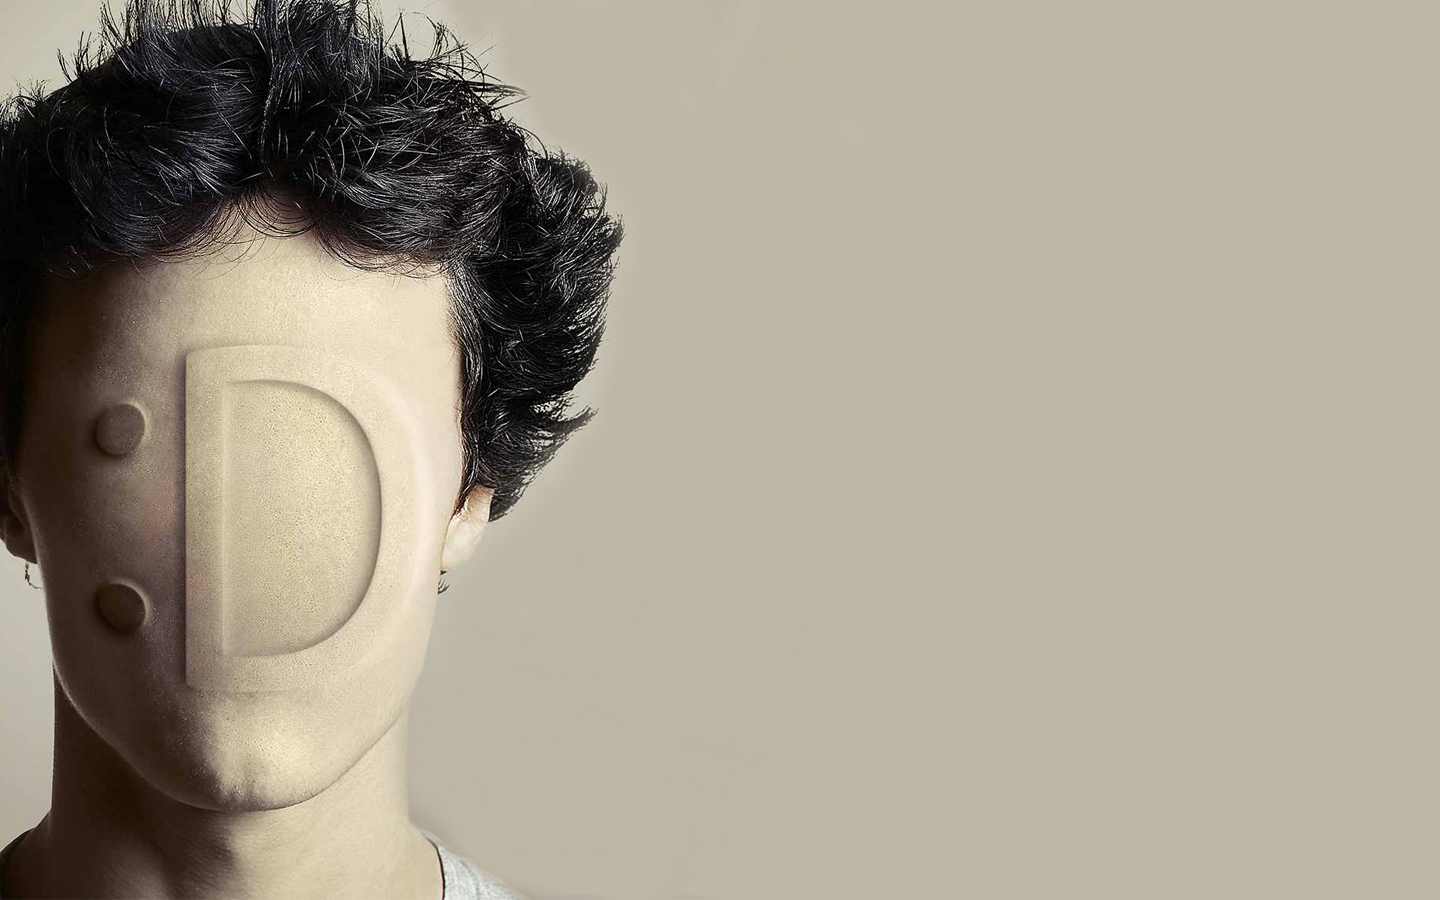
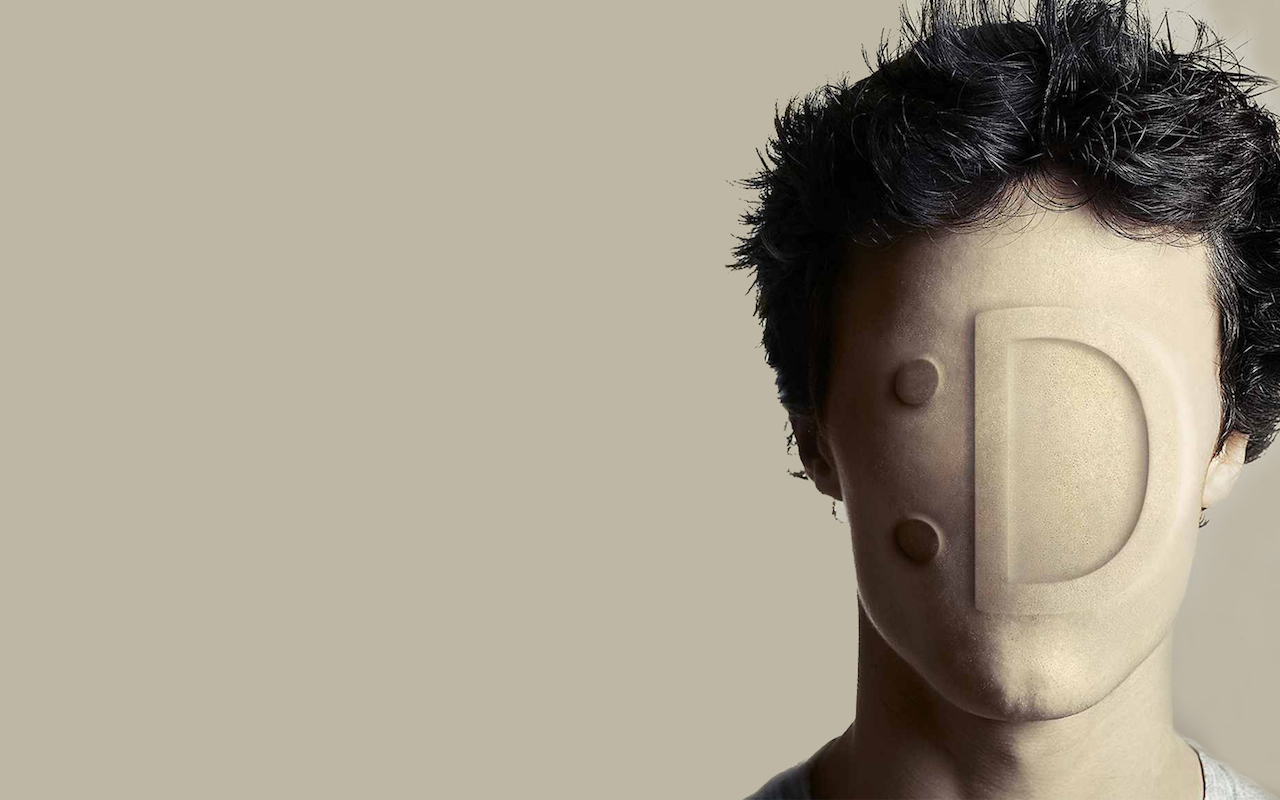
Sections

diff --git a/index.html b/index.html
@@ -19,7 +19,7 @@
     $(document).ready(function(){
       $(".main").onepage_scroll({
         sectionContainer: "section",
-        responsiveFallback: 1300
+        responsiveFallback: 1400
       });
     });
   </script>
@@ -27,22 +27,19 @@
     <div class="wrapper">
       <div class="main">
         <section class="home">
-          <div class="page_container row">
-            <div class="large-12 columns">
-              <div class="large-6 columns"></div>
-              <div class="large-6 columns">
-                <h1 style="margin-top:10%">SEMANA</h1>
-                <h1 class="dalei">DA<strong>LEI</strong></h1>
-                <h4 class="di">Departamento de Informática</h3>
-                <h4 class="date">15 a 22 de Fevereiro</h3>
-                <div class="organized_by">
-                  <img src="img/cesium.png">
-                </div>
-                <div class="logos">
-                  <img src="img/icon-di.png">
-                  <img src="img/icon-ee.png">
-                  <img src="img/icon-um.png">
-                </div>
+          <div class="page_container">
+            <div class="infos">
+              <h1 style="margin-top:30px">SEMANA</h1>
+              <h1 class="dalei">DA<strong>LEI</strong></h1>
+              <h4 class="di">Departamento de Informática</h3>
+              <h4 class="date">15 a 22 de Fevereiro</h3>
+              <div class="organized_by">
+                <img src="img/cesium.png">
+              </div>
+              <div class="logos">
+                <img src="img/icon-di.png">
+                <img src="img/icon-ee.png">
+                <img src="img/icon-um.png">
               </div>
             </div>
           </div>
@@ -314,6 +311,21 @@
               </div>
             </div>
           </div>
+        </section>
+        <section class="workshops">
+          <h1>PALESTRAS E WORKSHOPS</h1>
+        </section>
+        <section class="social">
+          <h1>SOCIAL E DIVULGAÇÃO</h1>
+        </section>
+        <section class="lounge">
+          <h1>LOUNGE, TORNEIOS E COMPETIÇÕES</h1>
+        </section>
+        <section class="others">
+          <h1>OUTROS EVENTOS</h1>
+        </section>
+        <section class="infos">
+          <h1>INFORMAÇÕES</h1>
         </section>
       </div>
     </div>

diff --git a/css/style.css b/css/style.css
@@ -20,6 +20,9 @@ h3, h4, h5, h6{
 }
 
 h1{
+  text-align: center;
+  font-size: 40px;
+  margin: 30px 0 30px 0;
   font-weight: 900;
 }
 
@@ -32,19 +35,13 @@ section{
 section.home{
   background: url(../img/background.jpg);
   background-size: cover;
-  background-position: right;
-}
-
-@media only screen and (max-width: 320px) {
-
-  section.home{
-    background: #beb7a5;
-  }
+  background-position: center;
 }
 
 section.home h1{
+  text-align: left;
   font-weight: normal;
-  font-size: 7em;
+  font-size: 8em;
   color: #eee;
 }
 
@@ -59,6 +56,11 @@ section.home h4{
   font-size: 25px;
 }
 
+section.home .infos{
+  margin-left: 5%;
+  margin-top: 5%;
+}
+
 section.home .logos{
   margin-top: -28px;
   margin-left: 5px;
@@ -69,7 +71,7 @@ section.home .logos img{
 }
 
 section.home .organized_by img{
-  margin-top: 10%;
+  margin-top: 3%;
   width: 300px;
 }
 
@@ -91,11 +93,33 @@ section.calendar{
 }
 
 section.calendar h1{
-  text-align: center;
-  font-size: 35px;
   color: #333;
-  margin: 20px;
 }
+
+section.workshops{
+  background-color: rgba(237, 121, 80, 1);
+}
+
+section.workshops h1{
+  color: #eee;
+}
+
+section.lounge{
+  background-color: rgba(237, 121, 80, 1);
+}
+
+section.lounge h1{
+  color: #eee;
+}
+
+section.infos{
+  background-color: #333;
+}
+
+section.infos h1{
+  color: #eee;
+}
+
 
 .slide-down{
   background-image: url("../img/down.png");
